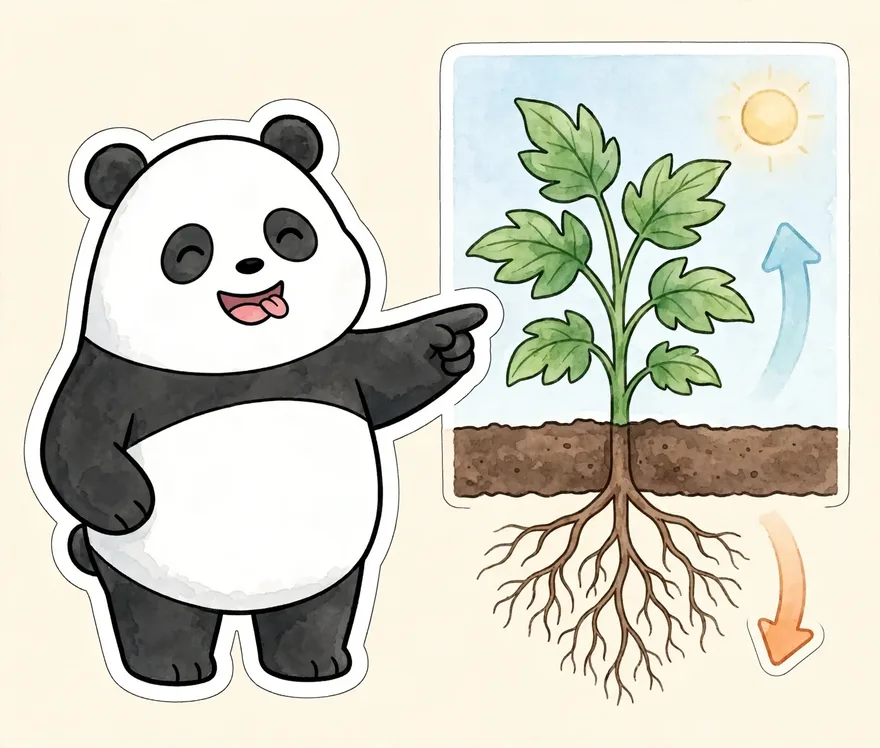
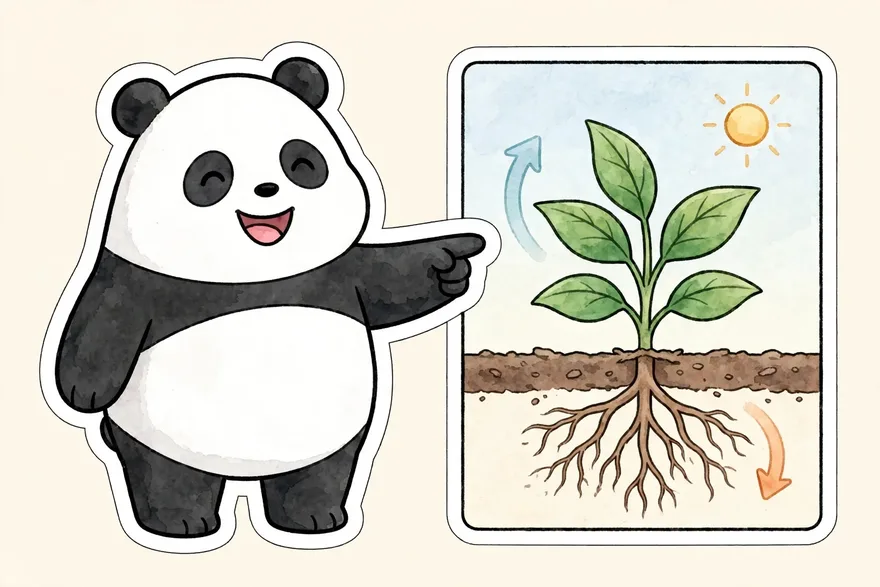
基礎の基礎イラストを修正（ほっぺのチークなし・頭から体までまっすぐなシルエットに）

diff --git a/index.html b/index.html
@@ -3436,7 +3436,7 @@
         <p class="small">どちらが良い・悪いではなく、真ん中を目安にする知恵です。</p>
       </div>
       <p class="inyo-h">陰陽の基礎の基礎</p>
-      <img class="inyo-kiso" loading="lazy" src="inyo-kiso.webp" alt="植物の断面のイラスト。空へ伸びる葉のそばに青い上向きの矢印、地面へ伸びる根のそばに橙色の下向きの矢印。パンダが指さして教えている" width="880" height="748" style="height:auto">
+      <img class="inyo-kiso" loading="lazy" src="inyo-kiso.webp" alt="植物の断面のイラスト。空へ伸びる葉のそばに青い上向きの矢印、地面へ伸びる根のそばに橙色の下向きの矢印。パンダが指さして教えている" width="880" height="587" style="height:auto">
       <p class="dict3-lead">陰と陽は、もともと「力の向き」を表す言葉だよ。<br>桜沢如一さんの陰陽学では、こんなふうに置きました。</p>
       <div class="inyo-wisdom">
         <div class="inyo-wis"><b style="color:#c1440e;">陽＝求心性</b>：中心へ集まっていく力です。植物の根のように、地面の奥、地球の中心へ向かって伸びていきます。</div>
